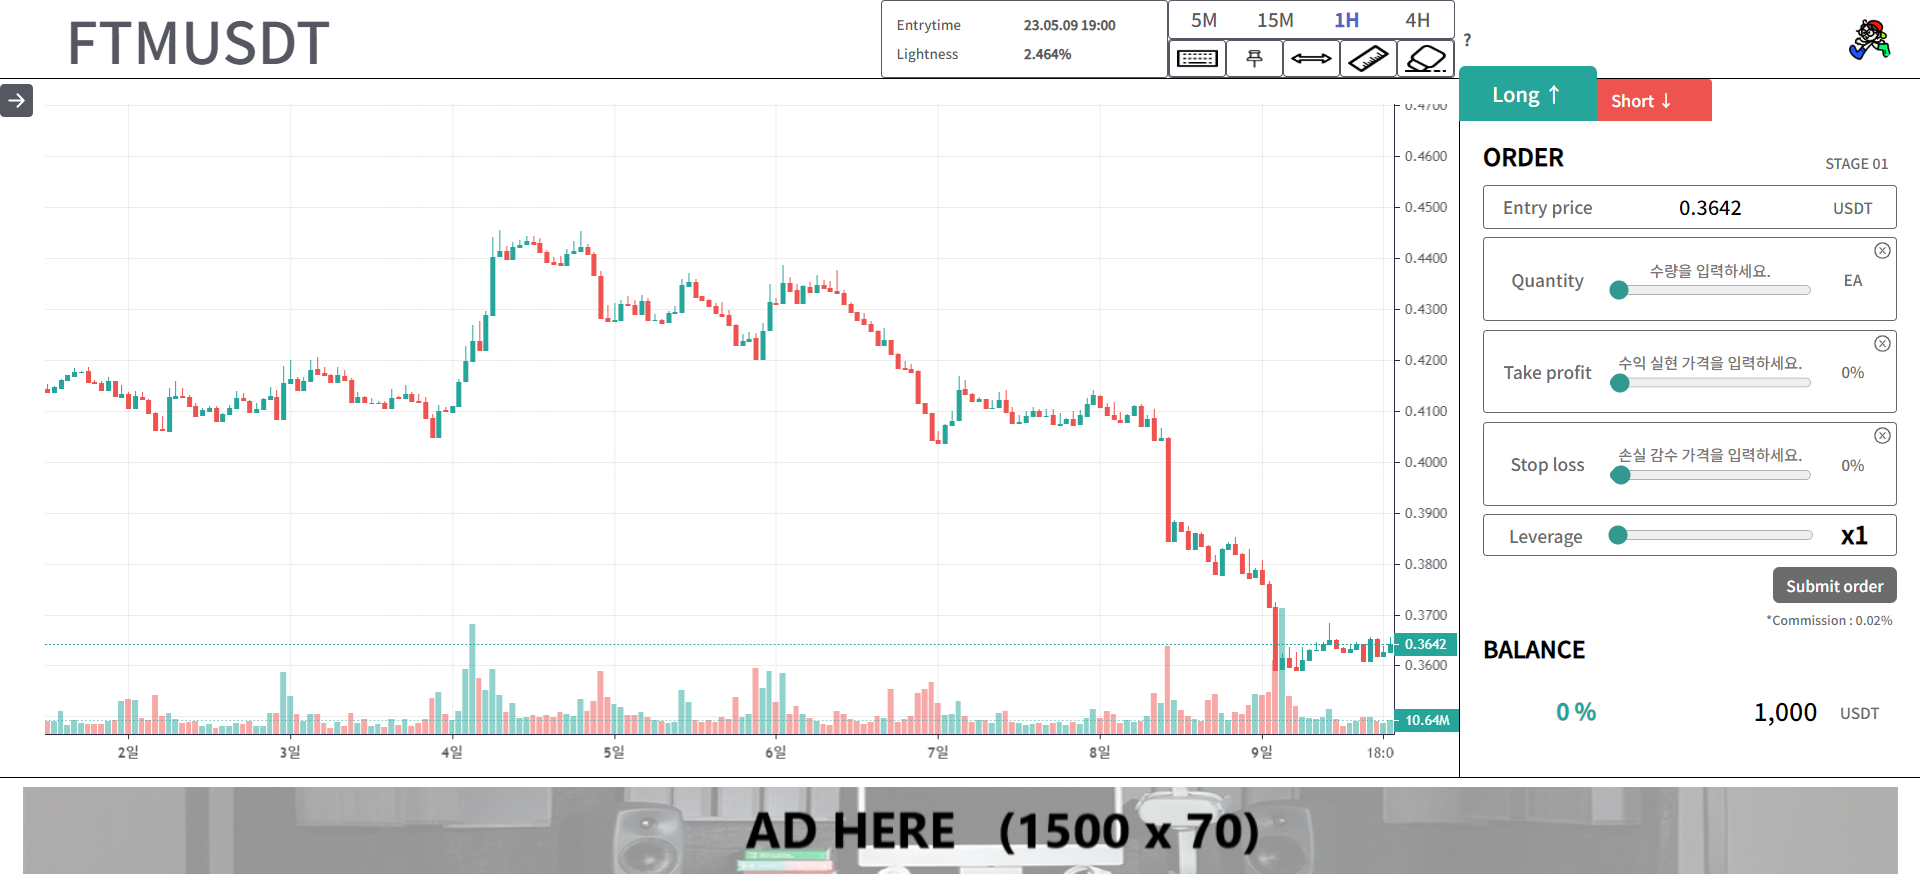
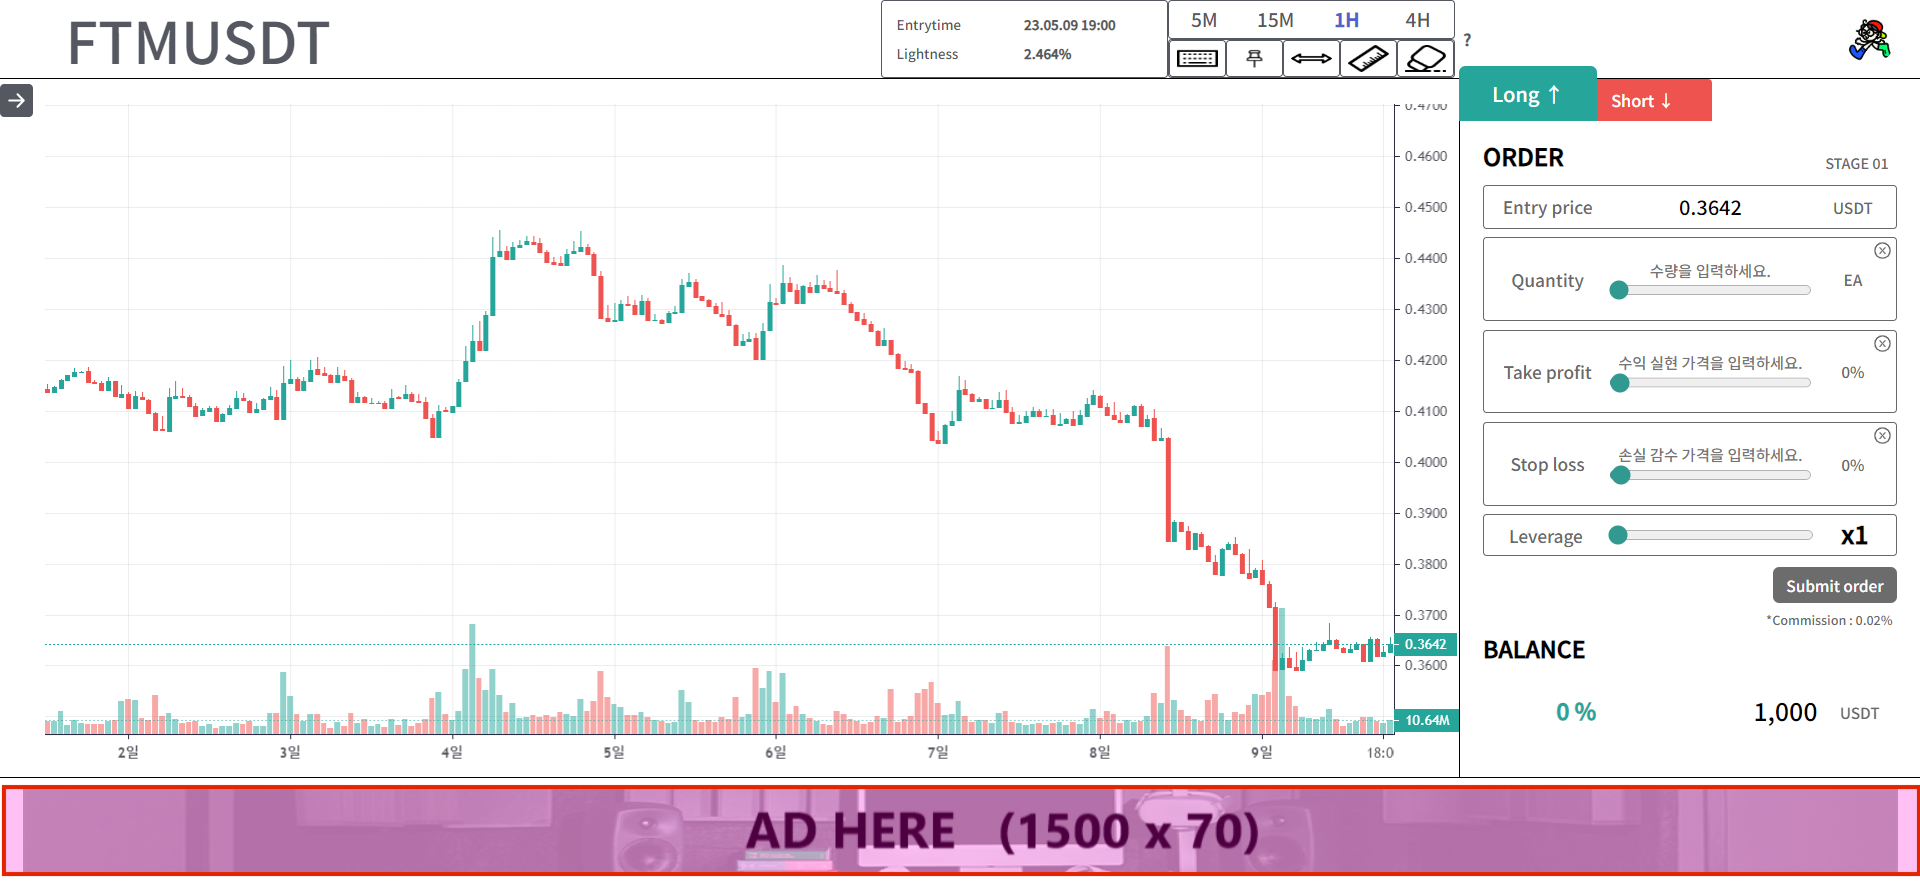
feat: Add ad-bidding param

Changed region(s): [[0.0, 0.8857, 1.0, 1.0]]

diff --git a/frontend/src/RoutingPages/AdBidding/AdBidding.js b/frontend/src/RoutingPages/AdBidding/AdBidding.js
@@ -9,9 +9,11 @@ import next from "../../component/images/next.png";
 import { useEffect, useState } from "react";
 import Countdown from "./Countdown/Countdown";
 import HorizontalLine from "../../component/lines/HorizontalLine";
-import VerticalLine from "../../component/lines/VerticalLine";
+import { useParams } from "react-router-dom";
 
 function AddBidding() {
+  const { locParam } = useParams(); // TODO fix undefined param value error
+
   const [idx, setIdx] = useState(0);
   const titles = ["연습모드 하단", "랭크 페이지 중간", "무료 토큰 지급 페이지"];
   const previImages = [practice, rank];
@@ -57,8 +59,16 @@ function AddBidding() {
     };
 
     getNextBidUnlock();
+    pathes.map((path) => {
+      if (locParam && path === locParam) {
+        highestBidder(locParam);
+        return;
+      }
+    });
     highestBidder(pathes[0]);
   }, []);
+
+  console.log(locParam);
 
   return (
     <div className={styles.adbidding}>

diff --git a/frontend/src/component/tradingBoard/TradingBoard.module.css b/frontend/src/component/tradingBoard/TradingBoard.module.css
@@ -43,6 +43,8 @@
   width: 1%;
   height: 100%;
   z-index: 10;
+  position: relative;
+  left: 5px;
 }
 
 .closebutton,
@@ -50,11 +52,8 @@
   background-color: transparent;
   border: none;
   font-size: 1.7vw;
-  position: relative;
   color: #555860;
   width: 100%;
-  top: 0%;
-  left: -5%;
 }
 
 .closebutton:hover {
@@ -76,15 +75,13 @@
 .chartinterface {
   width: 75%;
   height: 100%;
-  padding-top: 20px;
-  padding-left: 20px;
+  padding-top: 10px;
   transition: 1s;
 }
 .widerchart {
   width: 78%;
   height: 100%;
-  padding-top: 20px;
-  padding-left: 20px;
+  padding-top: 10px;
   transition: 1s;
 }
 

diff --git a/frontend/src/RoutingPages/practice/Practice.js b/frontend/src/RoutingPages/practice/Practice.js
@@ -7,6 +7,10 @@ function Practice() {
   const score_id = Date.now().toString();
   const [isLoaded, setIsLoaded] = useState(false);
 
+  const adClick = () => {
+    window.location.replace("/ad-bidding/practice");
+  };
+
   return (
     <div className={styles.practicepage}>
       <div className={styles.chart}>
@@ -18,7 +22,7 @@ function Practice() {
         />
       </div>
       <div className={styles.ad}>
-        {isLoaded ? <img src={mockupimg}></img> : null}
+        {isLoaded ? <img src={mockupimg} onClick={adClick}></img> : null}
       </div>
     </div>
   );

diff --git a/frontend/src/App.js b/frontend/src/App.js
@@ -28,6 +28,7 @@ function App() {
           <Route path="/practice" element={<Practice />} />
           <Route path="/community" element={<div>This is board page.</div>} />
           <Route path="/ad-bidding" element={<AddBidding />} />
+          <Route path="/ad-bidding/:location" element={<AddBidding />} />
           <Route path="/mypage" element={<MyPage />} />
           <Route path="/rank" element={<Rank />} />
           <Route path="/login" element={<Login />} />

diff --git a/frontend/src/RoutingPages/Ranking/AdDiv/AdDiv.js b/frontend/src/RoutingPages/Ranking/AdDiv/AdDiv.js
@@ -2,8 +2,11 @@ import styles from "./AdDiv.module.css";
 import mockup from "../../../component/images/mockup_rank.png";
 
 function AdDiv() {
+  const adClick = () => {
+    window.location.replace("/ad-bidding/rank");
+  };
   return (
-    <div className={styles.addiv}>
+    <div className={styles.addiv} onClick={adClick}>
       <img className={styles.adimage} src={mockup}></img>
     </div>
   );

diff --git a/frontend/src/component/tradingBoard/ChartHeader/ChartHeader.module.css b/frontend/src/component/tradingBoard/ChartHeader/ChartHeader.module.css
@@ -20,10 +20,11 @@
 
 .name {
   height: 100%;
-  width: 45%;
+  width: 60%;
   display: flex;
   align-items: center;
-  justify-content: center;
+  justify-content: start;
+  padding-left: 30px;
   font-size: 3vw;
   font-weight: 500;
 }
